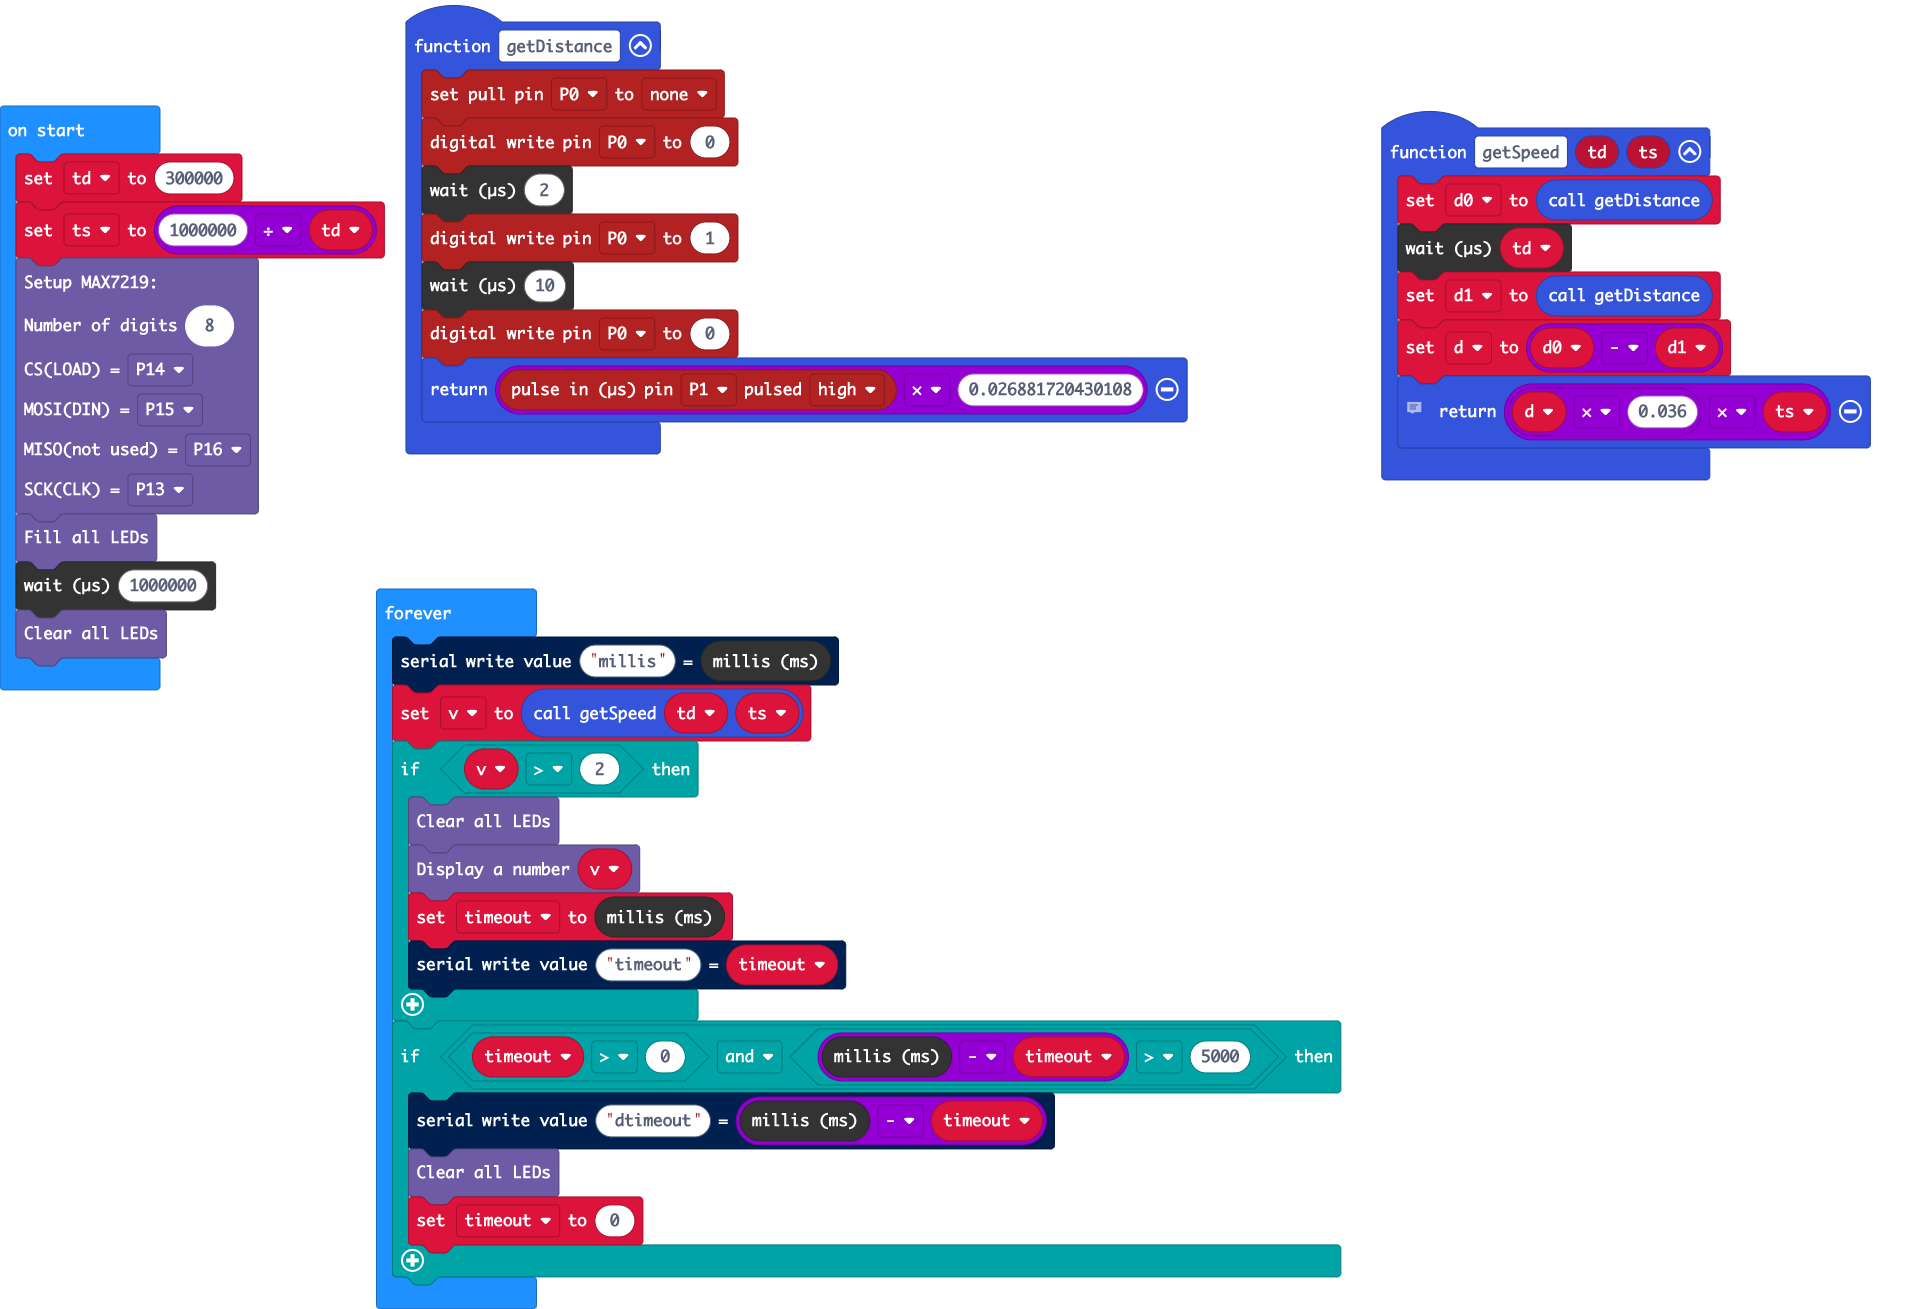
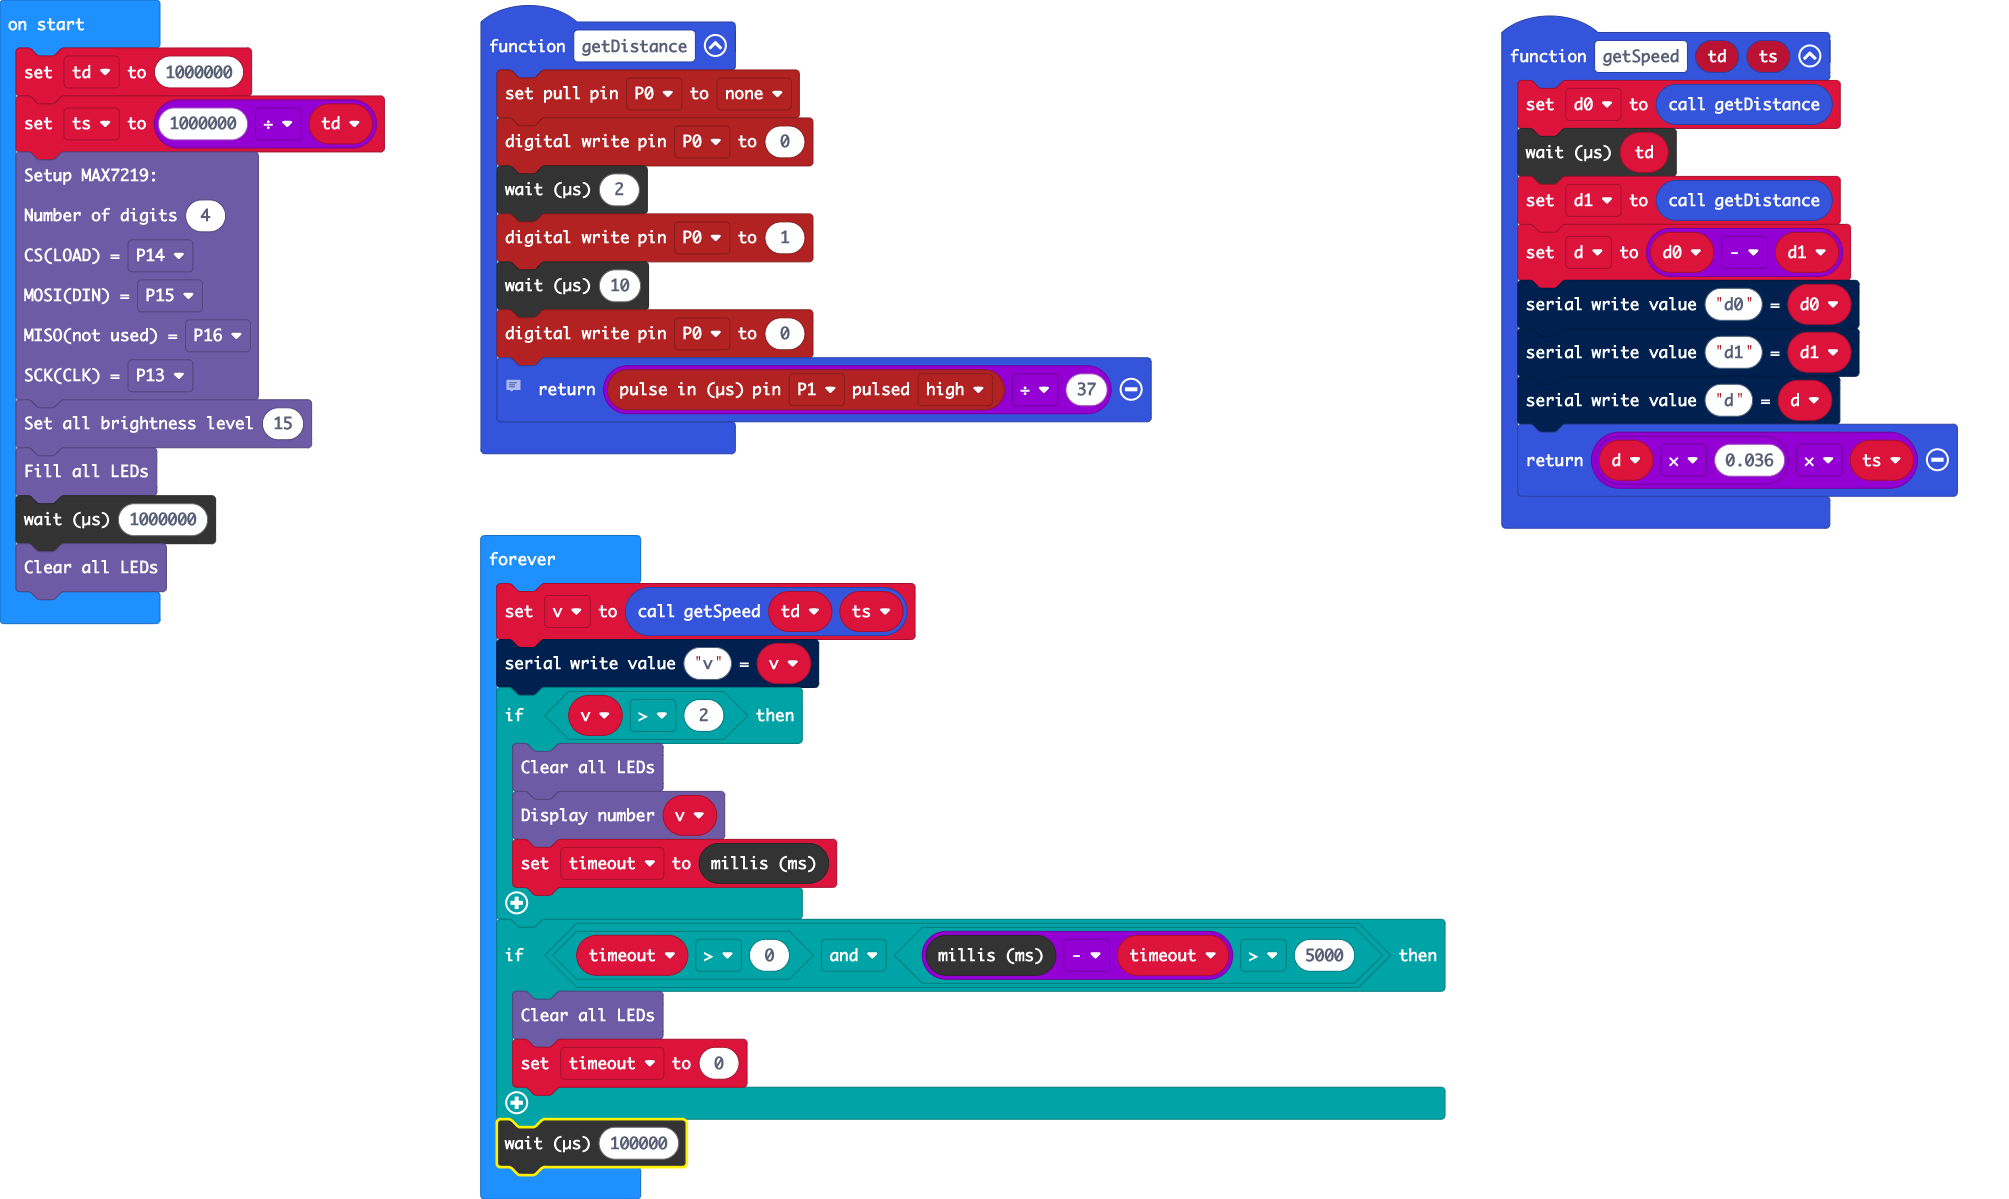
Update main.blocks, main.ts

diff --git a/main.ts b/main.ts
@@ -5,15 +5,17 @@ function getDistance () {
     pins.digitalWritePin(DigitalPin.P0, 1)
     control.waitMicros(10)
     pins.digitalWritePin(DigitalPin.P0, 0)
-    return pins.pulseIn(DigitalPin.P1, PulseValue.High) * 0.026881720430108
+    // 0.026881720430108
+    return pins.pulseIn(DigitalPin.P1, PulseValue.High) / 37
 }
 function getSpeed (td: number, ts: number) {
     d0 = getDistance()
     control.waitMicros(td)
     d1 = getDistance()
     d = d0 - d1
-    // serial.writeValue("d0", d0)
-    // serial.writeValue("d1", d1)
+    serial.writeValue("d0", d0)
+    serial.writeValue("d1", d1)
+    serial.writeValue("d", d)
     return d * 0.036 * ts
 }
 let timeout = 0
@@ -22,31 +24,30 @@ let d = 0
 let d1 = 0
 let d0 = 0
 let ts = 0
-let td = 0
-td = 300000
+let td = 1000000
 ts = 1000000 / td
 max7219_7segment.setup(
-8,
+4,
 DigitalPin.P14,
 DigitalPin.P15,
 DigitalPin.P16,
 DigitalPin.P13
 )
+max7219_7segment.brightnessAll(15)
 max7219_7segment.fillAll()
 control.waitMicros(1000000)
 max7219_7segment.clearAll()
 basic.forever(function () {
-    serial.writeValue("millis", control.millis())
     v = getSpeed(td, ts)
+    serial.writeValue("v", v)
     if (v > 2) {
         max7219_7segment.clearAll()
         max7219_7segment.displayNumber(v)
         timeout = control.millis()
-        serial.writeValue("timeout", timeout)
     }
     if (timeout > 0 && control.millis() - timeout > 5000) {
-        serial.writeValue("dtimeout", control.millis() - timeout)
         max7219_7segment.clearAll()
         timeout = 0
     }
+    control.waitMicros(100000)
 })
